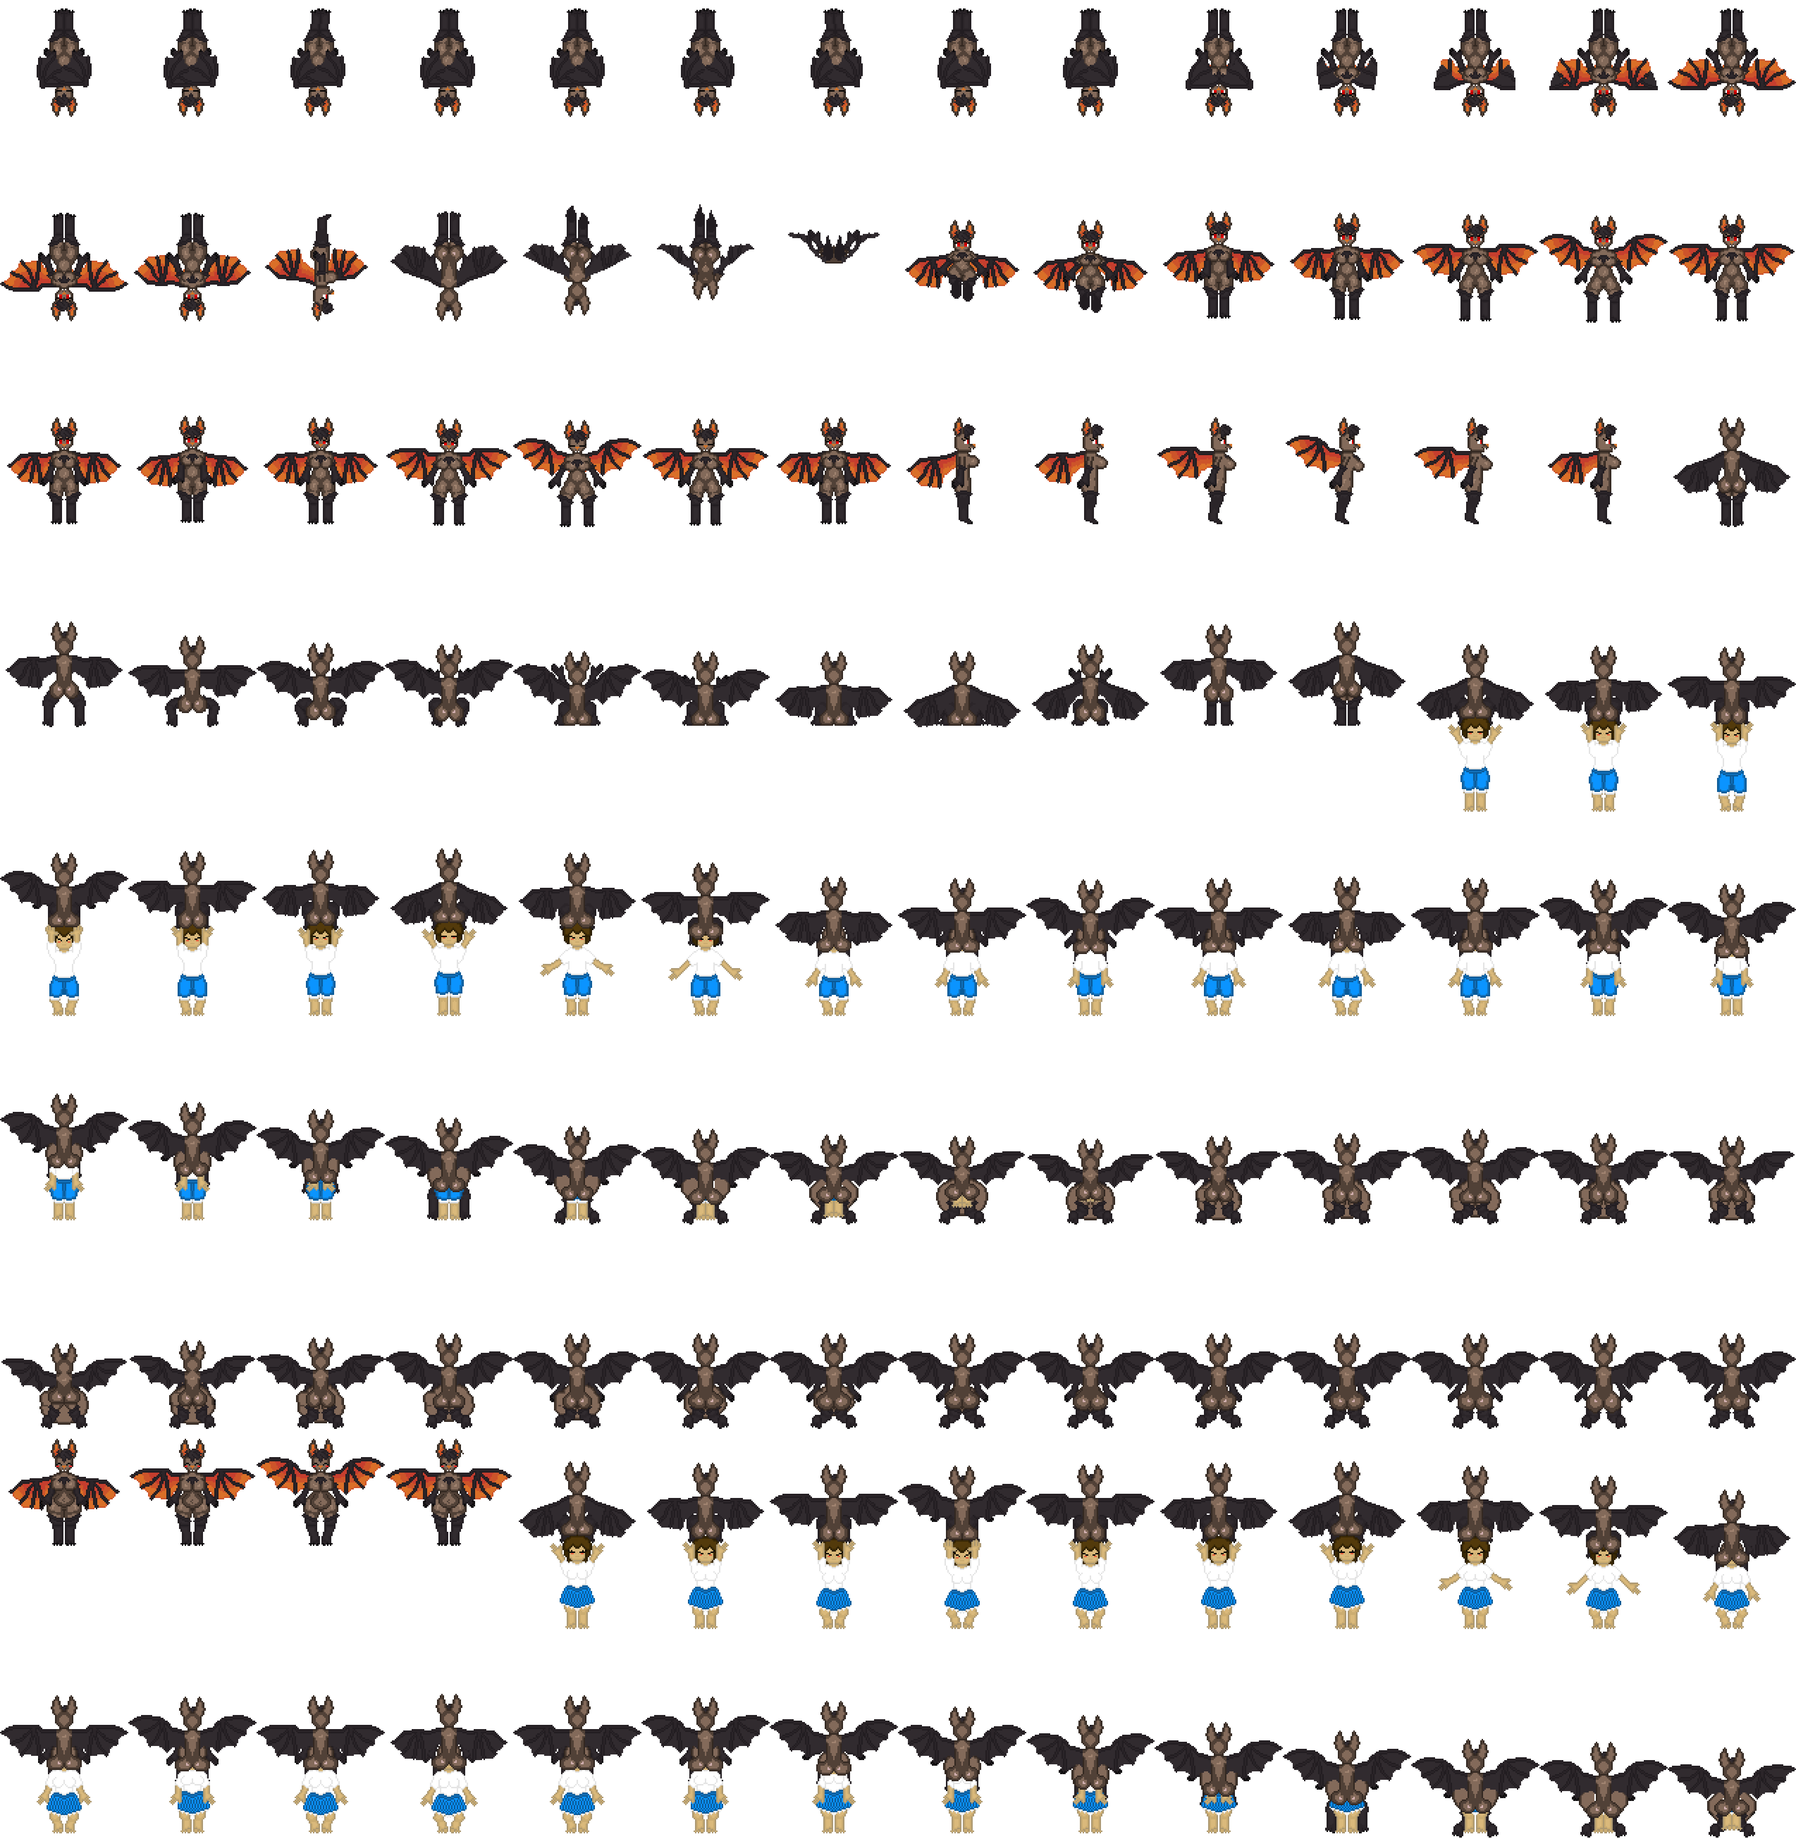
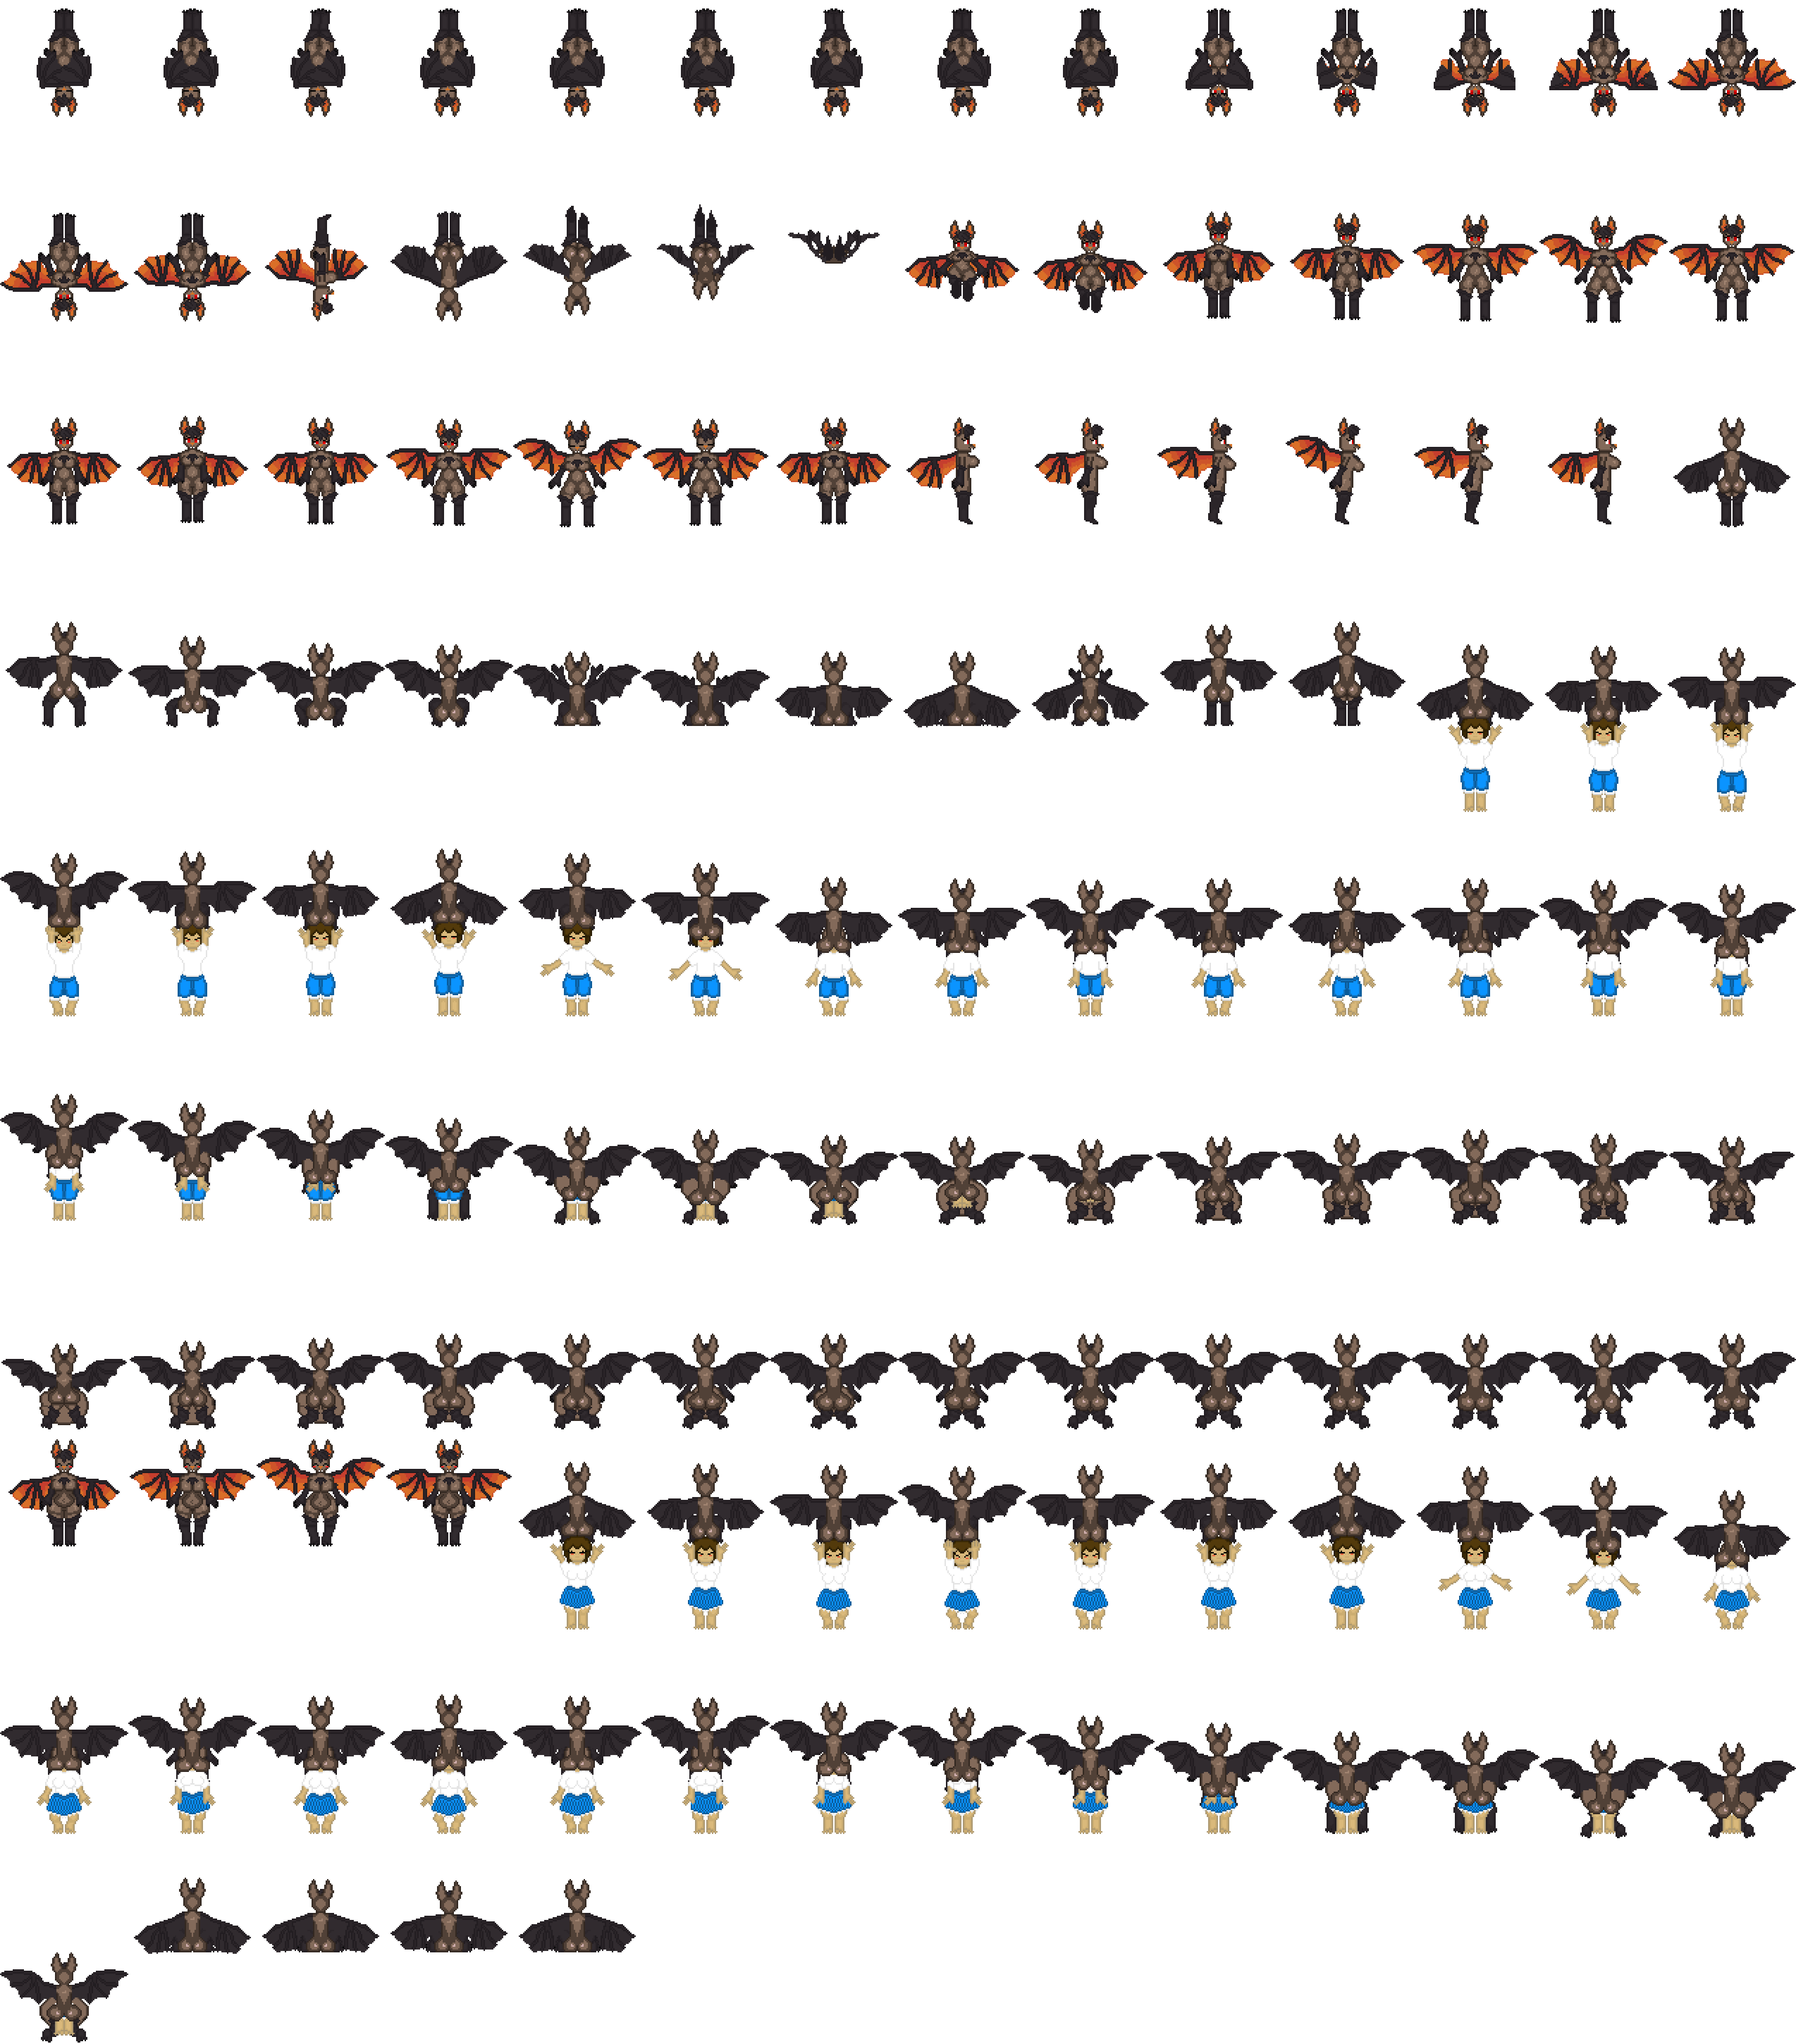
saving current bat

diff --git a/scripts/enemyScripts/bat.js b/scripts/enemyScripts/bat.js
@@ -40,10 +40,15 @@ class bat extends enemy {
         this.wakingUp = false;
         this.isButtSlamming = false;
         this.isPlayingMissedAnims = false;
+
+        //make a hitbox so the cat can attack the player.
+        this.attackHitBox = new hitBoxes(scene,this.x,this.y);
+        this.attackHitBox.setSize(30,10,true);
+        this.attackHitboxActive = false;
         
 
         // sets the bats hp value
-        this.enemyHP = 60;
+        this.enemyHP = 45;
 
         //defines a string containing telling the enemy which sound channel to use.
         this.batSFX = soundSprite;
@@ -92,6 +97,7 @@ class bat extends enemy {
             this.anims.create({ key: 'batButtDigest', frames: this.anims.generateFrameNames('batFemale', { start: 85, end: 93 }), frameRate: 8, repeat: 0 });
             this.anims.create({ key: 'batButtJiggle', frames: this.anims.generateFrameNames('batFemale', { start: 94, end: 97 }), frameRate: 8, repeat: 0 });
             this.anims.create({ key: 'batGameover', frames: this.anims.generateFrameNames('batFemale', { start: 98, end: 101 }), frameRate: 8, repeat: -1 });
+            this.anims.create({ key: 'batDefeated', frames: this.anims.generateFrameNames('batFemale', { start: 127, end: 130 }), frameRate: 6, repeat: -1 });
             
             if(sex === 0 ){
                 this.anims.create({ key: 'batButtGrabbed', frames: this.anims.generateFrameNames('batFemale', { start: 53, end: 58 }), frameRate: 8, repeat: -1 });
@@ -665,12 +671,13 @@ class bat extends enemy {
 
     // controls the damage resistance of the bat.
     damage() {
+        console.log("this.enemyHP:" + this.enemyHP);
         this.setVelocityX(0);
         if (this.damageCoolDown === false) {
             this.damageCoolDown = true;
             this.setTint(0xff7a7a);
             if (this.enemyHP > 0) {
-                //apply damage function here. maybe keep ristances as a variable a part of enemy then make a function to calculate damage
+
                 this.calcDamage(
                     this.scene.player1.sliceDamage,
                     this.scene.player1.bluntDamage,
@@ -682,11 +689,35 @@ class bat extends enemy {
                 );
 
                 this.playJumpySound('2',700);
-                
+
                 if (this.enemyHP <= 0) {
-                    this.scene.sound.get(this.batSFX).stop();
-                    this.grabHitBox.destroy();
-                    this.destroy();
+
+                    //set enemy defeated to true, so the move behavior cant interupt the game over animations.
+                    this.enemyDefeated = true;
+                    this.setVelocityX(0);
+
+                    //calculate item drop chance
+                    let dropChance = Math.round((Math.random() * ((75) - (60 * this.scene.player1.dropChance)) + (60 * this.scene.player1.dropChance))/100);
+                    let dropAmount = Math.round((Math.random() * (10 * this.scene.player1.dropAmount)) + 6);
+
+                    this.setDepth(4);
+
+                    //decides amount of slime drops based on size
+                    if( dropChance > 0){
+                        this.scene.initItemDrop(this.x + (Math.random() * (20 - 10) + 10)-10,this.y,16,1,dropAmount,"FUEL ICHOR","FUEL FOR A LANTERN.","ammo",5);
+                    }
+
+                    this.anims.play('batButtSlam').once('animationcomplete', () => {
+
+                        this.enemyInDefeatedLogic = true;
+
+                        //delete enemy hit box since they have been defeated.
+                        this.attackHitBox.x = this.x;
+                        this.attackHitBox.y = this.y + 3000; 
+                        this.grabHitBox.x = this.x;
+                        this.grabHitBox.y = this.y + 3000; 
+                    });
+                
                 }
             }
             console.log("damage cool down:" + this.damageCoolDown);
@@ -699,6 +730,18 @@ class bat extends enemy {
             }, 100);
         }
     }
+
+    enemyDefeatedLogic(){
+        this.setVelocityX(0);
+        this.anims.play('batDefeated', true);
+        
+        this.attackHitBox.x = this.x;
+        this.attackHitBox.y = this.y + 3000; 
+        this.grabHitBox.x = this.x;
+        this.grabHitBox.y = this.y + 3000; 
+
+    }
+
 
     //handles damage types for blue bat. get these damage types from the attack that hits the enemy
     calcDamage(slice, blunt, pierce, heat, lightning, cold,curse) {

diff --git a/scripts/enemyScripts/rabbit.js b/scripts/enemyScripts/rabbit.js
@@ -1794,7 +1794,6 @@ class rabbit extends enemy {
                 this.playJumpySound('2',700);
                 
                 if (this.enemyHP <= 0) {
-                    if (this.enemyHP <= 0) {
 
                     //set enemy defeated to true, so the move behavior cant interupt the game over animations.
                     this.enemyDefeated = true;
@@ -1822,7 +1821,7 @@ class rabbit extends enemy {
                         this.grabHitBox.y = this.y + 3000; 
                     });
                 
-                }
+                
                 }
             }
             console.log("damage cool down:" + this.damageCoolDown);

diff --git a/scripts/sceneScripts/sceneHirarchy/G9CheckEnemys.js b/scripts/sceneScripts/sceneHirarchy/G9CheckEnemys.js
@@ -548,9 +548,11 @@ class G9CheckEnemys extends G8InitEnemys {
     //console.log('bat.inSafeMode: ',bat.inSafeMode);
     if(this.objectsInRangeX(bat,scene.player1,450) && bat.inSafeMode === false ){
 
-      //calls tiger function to move
-      bat.move(scene.player1,scene);
-
+      if(bat.enemyInDefeatedLogic === true){
+        bat.enemyDefeatedLogic();
+      }else{
+        bat.move(scene.player1,scene);
+      }
       //if player is attacking
       if(this.player1.isAttacking === true){
         //checks if the attack hitbox is overlapping the beedrone to deal damage.

diff --git a/scripts/levelScripts/lockwoodLevels/PondForest.js b/scripts/levelScripts/lockwoodLevels/PondForest.js
@@ -215,7 +215,8 @@ class PondForest extends defaultScene {
 
           thisScene.initEnemy(1497,1789,thisScene.playerSex,'whiteCat',false); 
           thisScene.initEnemy(4089,1693,thisScene.playerSex,'whiteCat',false); 
-          thisScene.initEnemy(2036,1120,thisScene.playerSex,'bat',false,'wingFlapSFX1');        
+          //thisScene.initEnemy(2036,1120,thisScene.playerSex,'bat',false,'wingFlapSFX1');   
+          thisScene.initEnemy(1671,1073,thisScene.playerSex,'bat',false,'wingFlapSFX1');        
           thisScene.spawnedEnemys = true;
         },1000);
 

diff --git a/scripts/npcScripts/npc.js b/scripts/npcScripts/npc.js
@@ -79,11 +79,11 @@ class npc extends Phaser.Physics.Arcade.Sprite{
   //pauses the animations of the enemys.
   pauseAnimations(scene) {
     if (scene.inventoryOpen === true) {
-      console.log("pausing npc animation");
+      //console.log("pausing npc animation");
       this.anims.pause();
       this.isAnimsPaused = true;
     }else if(scene.inventoryOpen === false) {
-      console.log("resuming npc animation");
+      //console.log("resuming npc animation");
       this.anims.resume();
       this.isAnimsPaused = false;
     }

diff --git a/scripts/playerScripts/player.js b/scripts/playerScripts/player.js
@@ -730,7 +730,7 @@ healthEmitter.emit(healthEvent.returnHealth,playerHealthObject);
       //plays attack animations based on what the player has equipt when the player is not in the air,player now locked into the animation until it completes
       if(this.mainHitbox.body.blocked.down && this.isAttacking === true){
 
-        console.log("attacking activated.")
+        //console.log("attacking activated.")
 
         //depending on the key, decide which switch to enter for correctly oriented hitbox 
         if(this.lastKey === 'd'){

diff --git a/scripts/sceneScripts/sceneHeads/titleScreen.js b/scripts/sceneScripts/sceneHeads/titleScreen.js
@@ -156,6 +156,8 @@ class titleScreen extends A3SoundEffects {
                 '- Paws and Wait',
                 '- Whats Good Slime',
                 '- In Defiance of the Curse',
+                'KALE13: spritework assistance',
+                 '- M bat F player TF sprite',
                 'Stiefeljackal: rabbit gameover moddification',
                 'Zacchary Dempsey-Plante: Pixellari font',
                 "Scarlet: orthographer, inspiration, bug testing",

diff --git a/scripts/sceneScripts/sceneHirarchy/G6PreloadEnemys.js b/scripts/sceneScripts/sceneHirarchy/G6PreloadEnemys.js
@@ -77,6 +77,7 @@ class G6PreloadEnemys extends G5InitNPCs{
 
         tempSceneRef.load.spritesheet('batMale', 'assets/enemys/batMaleAll.png',{frameWidth: 273, frameHeight: 435 });
         tempSceneRef.load.spritesheet('batFemale', 'assets/enemys/batFemaleAll.png',{frameWidth: 273, frameHeight: 435  });
+        tempSceneRef.load.spritesheet('batFemaleExtension', 'assets/enemys/batFemaleExtension.png',{frameWidth: 273, frameHeight: 435  });
 
 
       },

diff --git a/index.html b/index.html
@@ -205,7 +205,7 @@
           default: 'arcade',
           arcade: {
             // debug is excelent for testing velocity and hitboxes.
-            debug: true
+            debug: false
           }
         },
         // loads animated tile plugin?
